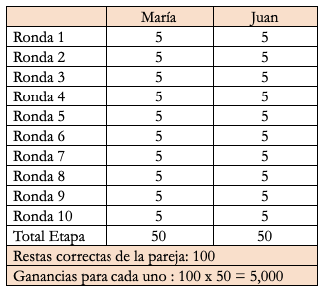
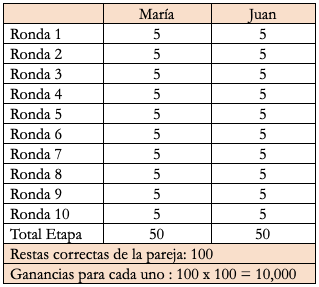
Minor corrections text

Changed region(s): [[0.0, 0.0, 1.0, 1.0]]

diff --git a/real_effort_numbers_nt_t/templates/real_effort_numbers_nt_t/Stage2Instructions3.html b/real_effort_numbers_nt_t/templates/real_effort_numbers_nt_t/Stage2Instructions3.html
@@ -22,12 +22,12 @@
             o <b>si le paga por la actividad sin establecer un contrato</b>. Los contratos no son gratis, 
             si María decide establecer un contrato a Juan, ella deberá pagar $5,000 y Juan deberá pagar $3,000. 
             En caso de que María decida pagarle a Juan sin establecer contrato, ninguno de los dos incurrirá en costos contractuales.<br><br>
-
-            Textilesa afronta un desajuste contable, por lo que el trabajo de Juan en esta etapa será 
-            el encargado de realizar restas para solucionar el problema.<br>
             
-            <b>Los pagos de Juan (jugador X):</b> Por este trabajo, 
-            María (Y) le pagará a Juan (X) $15,000 en 2 cuotas, de la siguiente manera:
+            Textilesa afronta un desajuste contable, por lo que el trabajo de Juan en esta etapa será el 
+            de realizar restas para solucionar el problema.<br><br>
+            
+            <b>Los pagos de Juan (jugador X):</b><br>
+            Por este trabajo, María (Y) le pagará a Juan (X) $15,000 en 2 cuotas, de la siguiente manera:
             <ul>
                 <li>Una primera cuota de $8,000 obligatoria y por adelantado.</li>
                 <li>La segunda cuota de $7,000 que:</li>
@@ -47,7 +47,7 @@
                     <li><b>Si María (Y) contrató a Juan (X):</b> Juan (X) le pagará a María una multa por incumplimiento por un valor de $30,000.</li>
                     <li><b>Si María (Y) NO contrató a Juan (X):</b> Juan (X) no pagará nada a María (Y), y María no ganará nada.</li>
                 </ul>
-            </ul><br>
+            </ul>
             
             <b>Ventajas y desventajas de la ausencia del contrato:</b><br><br>
             <p align="center"><img src="{% static 'images/ventajas_desventajas_etapa2.png' %}" alt="Ventajas y desventajas de la ausencia del contrato" style= "height: 90%; width: 90%; object-fit: cover"></p>
@@ -56,7 +56,7 @@
             <p align="center"><img src="{% static 'images/ganancias_etapa2.png' %}" alt="las ganancias de la Etapa 2 para ambos jugadores" style= "height: 90%; width: 90%; object-fit: cover"></p>
             
             <b>Las siguientes preguntas nos permiten verificar si las condiciones entre María y Juan
-            han sido claras para usted. Por favor, respóndalas</b><br>
+            han sido claras para usted. Por favor, respóndalas.</b><br><br>
             
             {% formfields %}
 

diff --git a/real_effort_numbers_nt_nt/templates/real_effort_numbers_nt_nt/Stage1Questions.html b/real_effort_numbers_nt_nt/templates/real_effort_numbers_nt_nt/Stage1Questions.html
@@ -4,9 +4,8 @@
 {# *** TITLE *** #}
 {# ****************************************************************************************************************** #}
 {% block title %}
-    {% trans "Preguntas de Control Etapa 1" %}
+    Preguntas de Control Etapa 1
 {% endblock %}
-
 
 {# ****************************************************************************************************************** #}
 {# *** CONTENT *** #}
@@ -14,16 +13,14 @@
 {% block content %}
 
     <div class="wrapper instructions">
-        <p align = "justify">
-            {% comment %} Todos:{% endcomment %} Esta etapa tiene 10 rondas. En cada ronda usted y otra persona con la que será emparejado (a),
+        <align align = "justify">
+            {% comment %} Todos:{% endcomment %} Esta etapa tiene {{Constants.sub_rounds_stage_1}} rondas. En cada ronda usted y otra persona con la que será emparejado (a),
             deberán realizar restas de números de dos dígitos a lo largo de un minuto.
-            Por cada resta correcta, cada miembro de la pareja recibirá $50. <br><br>
+            Por cada resta correcta, cada miembro de la pareja recibirá ${{Constants.payment_per_correct_answer}}.<br><br>
 
-            En esta etapa usted estará emparejado con un participante distinto cada ronda.<br><br>
-            
             <b>Ejemplo:</b><br>
             Imaginemos que hay dos jugadores, María y Juan y que ambos completan, al finalizar la Etapa 1, 50 restas correctas cada uno. 
-            Esto quiere decir que tendrán en total 100 restas correctas, equivalentes a 5000 pesos en total, tal como lo muestra la tabla:<br><br>
+            Esto quiere decir que tendrán en total 100 restas correctas, equivalentes a 10,000 pesos en total, tal como lo muestra la tabla:<br><br>
             <div style="text-align: center;">
                 <img src="{% static 'images/table_explain_paymentstage1.png' %}" style= "object-fit: cover">
             </div>

diff --git a/real_effort_numbers_nt_t/templates/real_effort_numbers_nt_t/Stage1Questions.html b/real_effort_numbers_nt_t/templates/real_effort_numbers_nt_t/Stage1Questions.html
@@ -4,9 +4,8 @@
 {# *** TITLE *** #}
 {# ****************************************************************************************************************** #}
 {% block title %}
-    {% trans "Preguntas de Control Etapa 1" %}
+    Preguntas de Control Etapa 1
 {% endblock %}
-
 
 {# ****************************************************************************************************************** #}
 {# *** CONTENT *** #}
@@ -14,16 +13,14 @@
 {% block content %}
 
     <div class="wrapper instructions">
-        <p align = "justify">
-            {% comment %} Todos:{% endcomment %} Esta etapa tiene 10 rondas. En cada ronda usted y otra persona con la que será emparejado (a),
+        <align align = "justify">
+            {% comment %} Todos:{% endcomment %} Esta etapa tiene {{Constants.sub_rounds_stage_1}} rondas. En cada ronda usted y otra persona con la que será emparejado (a),
             deberán realizar restas de números de dos dígitos a lo largo de un minuto.
-            Por cada resta correcta, cada miembro de la pareja recibirá $50.<br><br>
+            Por cada resta correcta, cada miembro de la pareja recibirá ${{Constants.payment_per_correct_answer}}.<br><br>
 
-            En esta etapa usted estará emparejado con un participante distinto cada ronda.<br><br>
-            
             <b>Ejemplo:</b><br>
             Imaginemos que hay dos jugadores, María y Juan y que ambos completan, al finalizar la Etapa 1, 50 restas correctas cada uno. 
-            Esto quiere decir que tendrán en total 100 restas correctas, equivalentes a 5000 pesos en total, tal como lo muestra la tabla:<br><br>
+            Esto quiere decir que tendrán en total 100 restas correctas, equivalentes a 10,000 pesos en total, tal como lo muestra la tabla:<br><br>
             <div style="text-align: center;">
                 <img src="{% static 'images/table_explain_paymentstage1.png' %}" style= "object-fit: cover">
             </div>

diff --git a/real_effort_numbers_t_nt/templates/real_effort_numbers_t_nt/Stage1Questions.html b/real_effort_numbers_t_nt/templates/real_effort_numbers_t_nt/Stage1Questions.html
@@ -4,9 +4,8 @@
 {# *** TITLE *** #}
 {# ****************************************************************************************************************** #}
 {% block title %}
-    {% trans "Preguntas de Control Etapa 1" %}
+    Preguntas de Control Etapa 1
 {% endblock %}
-
 
 {# ****************************************************************************************************************** #}
 {# *** CONTENT *** #}
@@ -14,14 +13,14 @@
 {% block content %}
 
     <div class="wrapper instructions">
-        <p align = "justify">
-            {% comment %} Todos:{% endcomment %} Esta etapa tiene 10 rondas. En cada ronda usted y otra persona con la que será emparejado (a),
+        <align align = "justify">
+            {% comment %} Todos:{% endcomment %} Esta etapa tiene {{Constants.sub_rounds_stage_1}} rondas. En cada ronda usted y otra persona con la que será emparejado (a),
             deberán realizar restas de números de dos dígitos a lo largo de un minuto.
-            Por cada resta correcta, cada miembro de la pareja recibirá $50.<br><br>
+            Por cada resta correcta, cada miembro de la pareja recibirá ${{Constants.payment_per_correct_answer}}.<br><br>
 
             <b>Ejemplo:</b><br>
             Imaginemos que hay dos jugadores, María y Juan y que ambos completan, al finalizar la Etapa 1, 50 restas correctas cada uno. 
-            Esto quiere decir que tendrán en total 100 restas correctas, equivalentes a 5000 pesos en total, tal como lo muestra la tabla:<br><br>
+            Esto quiere decir que tendrán en total 100 restas correctas, equivalentes a 10,000 pesos en total, tal como lo muestra la tabla:<br><br>
             <div style="text-align: center;">
                 <img src="{% static 'images/table_explain_paymentstage1.png' %}" style= "object-fit: cover">
             </div>

diff --git a/real_effort_numbers_t_t/templates/real_effort_numbers_t_t/Stage1Questions.html b/real_effort_numbers_t_t/templates/real_effort_numbers_t_t/Stage1Questions.html
@@ -4,9 +4,8 @@
 {# *** TITLE *** #}
 {# ****************************************************************************************************************** #}
 {% block title %}
-    {% trans "Preguntas de Control Etapa 1" %}
+    Preguntas de Control Etapa 1
 {% endblock %}
-
 
 {# ****************************************************************************************************************** #}
 {# *** CONTENT *** #}
@@ -15,13 +14,13 @@
 
     <div class="wrapper instructions">
         <align align = "justify">
-            {% comment %} Todos:{% endcomment %} Esta etapa tiene 10 rondas. En cada ronda usted y otra persona con la que será emparejado (a),
+            {% comment %} Todos:{% endcomment %} Esta etapa tiene {{Constants.sub_rounds_stage_1}} rondas. En cada ronda usted y otra persona con la que será emparejado (a),
             deberán realizar restas de números de dos dígitos a lo largo de un minuto.
-            Por cada resta correcta, cada miembro de la pareja recibirá $50.<br><br>
+            Por cada resta correcta, cada miembro de la pareja recibirá ${{Constants.payment_per_correct_answer}}.<br><br>
 
             <b>Ejemplo:</b><br>
             Imaginemos que hay dos jugadores, María y Juan y que ambos completan, al finalizar la Etapa 1, 50 restas correctas cada uno. 
-            Esto quiere decir que tendrán en total 100 restas correctas, equivalentes a 5000 pesos en total, tal como lo muestra la tabla:<br><br>
+            Esto quiere decir que tendrán en total 100 restas correctas, equivalentes a 10,000 pesos en total, tal como lo muestra la tabla:<br><br>
             <div style="text-align: center;">
                 <img src="{% static 'images/table_explain_paymentstage1.png' %}" style= "object-fit: cover">
             </div>

diff --git a/real_effort_numbers_t_nt/templates/real_effort_numbers_t_nt/Stage2Instructions3.html b/real_effort_numbers_t_nt/templates/real_effort_numbers_t_nt/Stage2Instructions3.html
@@ -22,9 +22,9 @@
             o <b>si le paga por la actividad sin establecer un contrato</b>. Los contratos no son gratis, 
             si María decide establecer un contrato a Juan, ella deberá pagar $5,000 y Juan deberá pagar $3,000. 
             En caso de que María decida pagarle a Juan sin establecer contrato, ninguno de los dos incurrirá en costos contractuales.<br><br>
-
-            Textilesa afronta un desajuste contable, por lo que el trabajo de Juan en esta etapa será 
-            el encargado de realizar restas para solucionar el problema.<br><br>
+            
+            Textilesa afronta un desajuste contable, por lo que el trabajo de Juan en esta etapa será el 
+            de realizar restas para solucionar el problema.<br><br>
             
             <b>Los pagos de Juan (jugador X):</b><br>
             Por este trabajo, María (Y) le pagará a Juan (X) $15,000 en 2 cuotas, de la siguiente manera:
@@ -64,4 +64,3 @@
     </div>
 {% next_button %}
 {% endblock %}
-

diff --git a/real_effort_numbers_nt_nt/templates/real_effort_numbers_nt_nt/Stage2Instructions3.html b/real_effort_numbers_nt_nt/templates/real_effort_numbers_nt_nt/Stage2Instructions3.html
@@ -22,9 +22,9 @@
             o <b>si le paga por la actividad sin establecer un contrato</b>. Los contratos no son gratis, 
             si María decide establecer un contrato a Juan, ella deberá pagar $5,000 y Juan deberá pagar $3,000. 
             En caso de que María decida pagarle a Juan sin establecer contrato, ninguno de los dos incurrirá en costos contractuales.<br><br>
-
-            Textilesa afronta un desajuste contable, por lo que el trabajo de Juan en esta etapa será 
-            el encargado de realizar restas para solucionar el problema.<br><br>
+            
+            Textilesa afronta un desajuste contable, por lo que el trabajo de Juan en esta etapa será el 
+            de realizar restas para solucionar el problema.<br><br>
             
             <b>Los pagos de Juan (jugador X):</b><br>
             Por este trabajo, María (Y) le pagará a Juan (X) $15,000 en 2 cuotas, de la siguiente manera:

diff --git a/real_effort_numbers_t_t/templates/real_effort_numbers_t_t/Stage2Instructions3.html b/real_effort_numbers_t_t/templates/real_effort_numbers_t_t/Stage2Instructions3.html
@@ -22,9 +22,9 @@
             o <b>si le paga por la actividad sin establecer un contrato</b>. Los contratos no son gratis, 
             si María decide establecer un contrato a Juan, ella deberá pagar $5,000 y Juan deberá pagar $3,000. 
             En caso de que María decida pagarle a Juan sin establecer contrato, ninguno de los dos incurrirá en costos contractuales.<br><br>
-
-            Textilesa afronta un desajuste contable, por lo que el trabajo de Juan en esta etapa será 
-            el encargado de realizar restas para solucionar el problema.<br><br>
+            
+            Textilesa afronta un desajuste contable, por lo que el trabajo de Juan en esta etapa será el 
+            de realizar restas para solucionar el problema.<br><br>
             
             <b>Los pagos de Juan (jugador X):</b><br>
             Por este trabajo, María (Y) le pagará a Juan (X) $15,000 en 2 cuotas, de la siguiente manera:

diff --git a/informality_experiment/templates/informality_experiment/Stage1Round.html b/informality_experiment/templates/informality_experiment/Stage1Round.html
@@ -63,6 +63,7 @@
                 $(".otree-btn-next").click();
             }else{
                 $('#image').attr('src', "/static/images/1stage/phases/"+path_image+".PNG");
+                $('#id_num_entered').val(0); 
             }
         }
     </script>

diff --git a/real_effort_numbers_nt_t/models.py b/real_effort_numbers_nt_t/models.py
@@ -43,14 +43,14 @@ class Constants(BaseConstants):
     players_per_group = 2
     num_rounds = 11
     fixed_payment = 5000
-    payment_per_correct_answer = 50
+    payment_per_correct_answer = 100
 
     #STAGE 1
-    num_seconds_stage_1 = 30 # default: 60
+    num_seconds_stage_1 = 60 # default: 60
     sub_rounds_stage_1 = 10 # final: 10
-    num1_random_stage_1 = 1 # default: 50
-    num2_random_stage_1 = 2 # default: 99
-    timeout_result_round = 5 # default: 10
+    num1_random_stage_1 = 50 # default: 50
+    num2_random_stage_1 = 99 # default: 99
+    timeout_result_round = 5 # default: 5
     list_atrr_round = [
         'correct_answers_round1',
         'correct_answers_round2',
@@ -65,10 +65,10 @@ class Constants(BaseConstants):
     ]
 
     #STAGE 2
-    num_seconds_stage_2 = 60*5 # default: 60*10
+    num_seconds_stage_2 = 60*10 # default: 60*10
     mandatory_subtraction = 50 # default: 50
-    num1_random_stage_2 = 1 # default: 50
-    num2_random_stage_2 = 2 # default: 99
+    num1_random_stage_2 = 50 # default: 50
+    num2_random_stage_2 = 99 # default: 99
 class Subsession(BaseSubsession):
     def creating_session(self):
 
@@ -156,8 +156,8 @@ class Player(BasePlayer):
     control_question_2 = models.IntegerField(
         label="Si en la ronda 1, mi compañero(a) y yo logramos 20 restas correctas, cada uno ganará:",
         choices = [
-            [1, "1000"],
-            [2, "2000"],
+            [1, "2000"],
+            [2, "1000"],
             [3, "3000"],
         ],
         widget = widgets.RadioSelect,
@@ -234,7 +234,7 @@ class Player(BasePlayer):
 
     def control_question_2_error_message(self, value):
         if value != 1:
-            return 'Recuerde que ganarán $50 por cada respuesta correcta que hayan dado juntos.'
+            return 'Recuerde que ganarán $100 por cada respuesta correcta que hayan dado juntos.'
     
     def control_question_3_error_message(self, value):
         if value != 3:

diff --git a/real_effort_numbers_nt_nt/models.py b/real_effort_numbers_nt_nt/models.py
@@ -43,14 +43,14 @@ class Constants(BaseConstants):
     players_per_group = 2
     num_rounds = 11
     fixed_payment = 5000
-    payment_per_correct_answer = 50
+    payment_per_correct_answer = 100
 
     #STAGE 1
-    num_seconds_stage_1 = 30 # default: 60
+    num_seconds_stage_1 = 60 # default: 60
     sub_rounds_stage_1 = 10 # final: 10
-    num1_random_stage_1 = 1 # default: 50
-    num2_random_stage_1 = 2 # default: 99
-    timeout_result_round = 5 # default: 10
+    num1_random_stage_1 = 50 # default: 50
+    num2_random_stage_1 = 99 # default: 99
+    timeout_result_round = 5 # default: 5
     list_atrr_round = [
         'correct_answers_round1',
         'correct_answers_round2',
@@ -65,10 +65,10 @@ class Constants(BaseConstants):
     ]
 
     #STAGE 2
-    num_seconds_stage_2 = 60*5 # default: 60*10
+    num_seconds_stage_2 = 60*10# default: 60*10
     mandatory_subtraction = 50 # default: 50
-    num1_random_stage_2 = 1 # default: 50
-    num2_random_stage_2 = 2 # default: 99
+    num1_random_stage_2 = 50 # default: 50
+    num2_random_stage_2 = 99 # default: 99
 
 class Subsession(BaseSubsession):
     def creating_session(self):
@@ -157,8 +157,8 @@ class Player(BasePlayer):
     control_question_2 = models.IntegerField(
         label="Si en la ronda 1, mi compañero(a) y yo logramos 20 restas correctas, cada uno ganará:",
         choices = [
-            [1, "1000"],
-            [2, "2000"],
+            [1, "2000"],
+            [2, "1000"],
             [3, "3000"],
         ],
         widget = widgets.RadioSelect,
@@ -235,7 +235,7 @@ class Player(BasePlayer):
 
     def control_question_2_error_message(self, value):
         if value != 1:
-            return 'Recuerde que ganarán $50 por cada respuesta correcta que hayan dado juntos.'
+            return 'Recuerde que ganarán $100 por cada respuesta correcta que hayan dado juntos.'
     
     def control_question_3_error_message(self, value):
         if value != 3:

diff --git a/real_effort_numbers_t_t/models.py b/real_effort_numbers_t_t/models.py
@@ -43,14 +43,14 @@ class Constants(BaseConstants):
     players_per_group = 2
     num_rounds = 11
     fixed_payment = 5000
-    payment_per_correct_answer = 50
+    payment_per_correct_answer = 100
 
     #STAGE 1
-    num_seconds_stage_1 = 30 # default: 60
+    num_seconds_stage_1 = 60 # default: 60
     sub_rounds_stage_1 = 10 # final: 10
-    num1_random_stage_1 = 1 # default: 50
-    num2_random_stage_1 = 2 # default: 99
-    timeout_result_round = 5 # default: 10
+    num1_random_stage_1 = 50 # default: 50
+    num2_random_stage_1 = 99 # default: 99
+    timeout_result_round = 5 # default: 5
     list_atrr_round = [
         'correct_answers_round1',
         'correct_answers_round2',
@@ -65,10 +65,10 @@ class Constants(BaseConstants):
     ]
 
     #STAGE 2
-    num_seconds_stage_2 = 60*5 # default: 60*10
+    num_seconds_stage_2 = 60*10 # default: 60*10
     mandatory_subtraction = 50 # default: 50
-    num1_random_stage_2 = 1 # default: 50
-    num2_random_stage_2 = 2 # default: 99
+    num1_random_stage_2 = 50 # default: 50
+    num2_random_stage_2 = 99 # default: 99
 
 class Subsession(BaseSubsession):
     def creating_session(self):
@@ -152,8 +152,8 @@ class Player(BasePlayer):
     control_question_2 = models.IntegerField(
         label="Si en la ronda 1, mi compañero(a) y yo logramos 20 restas correctas, cada uno ganará:",
         choices=[
-            [1, "1000"],
-            [2, "2000"],
+            [1, "2000"],
+            [2, "1000"],
             [3, "3000"],
         ],
         widget=widgets.RadioSelect,
@@ -230,7 +230,7 @@ class Player(BasePlayer):
 
     def control_question_2_error_message(self, value):
         if value != 1:
-            return 'Recuerde que ganarán $50 por cada respuesta correcta que hayan dado juntos.'
+            return 'Recuerde que ganarán $100 por cada respuesta correcta que hayan dado juntos.'
 
     def control_question_3_error_message(self, value):
         if value != 2:
